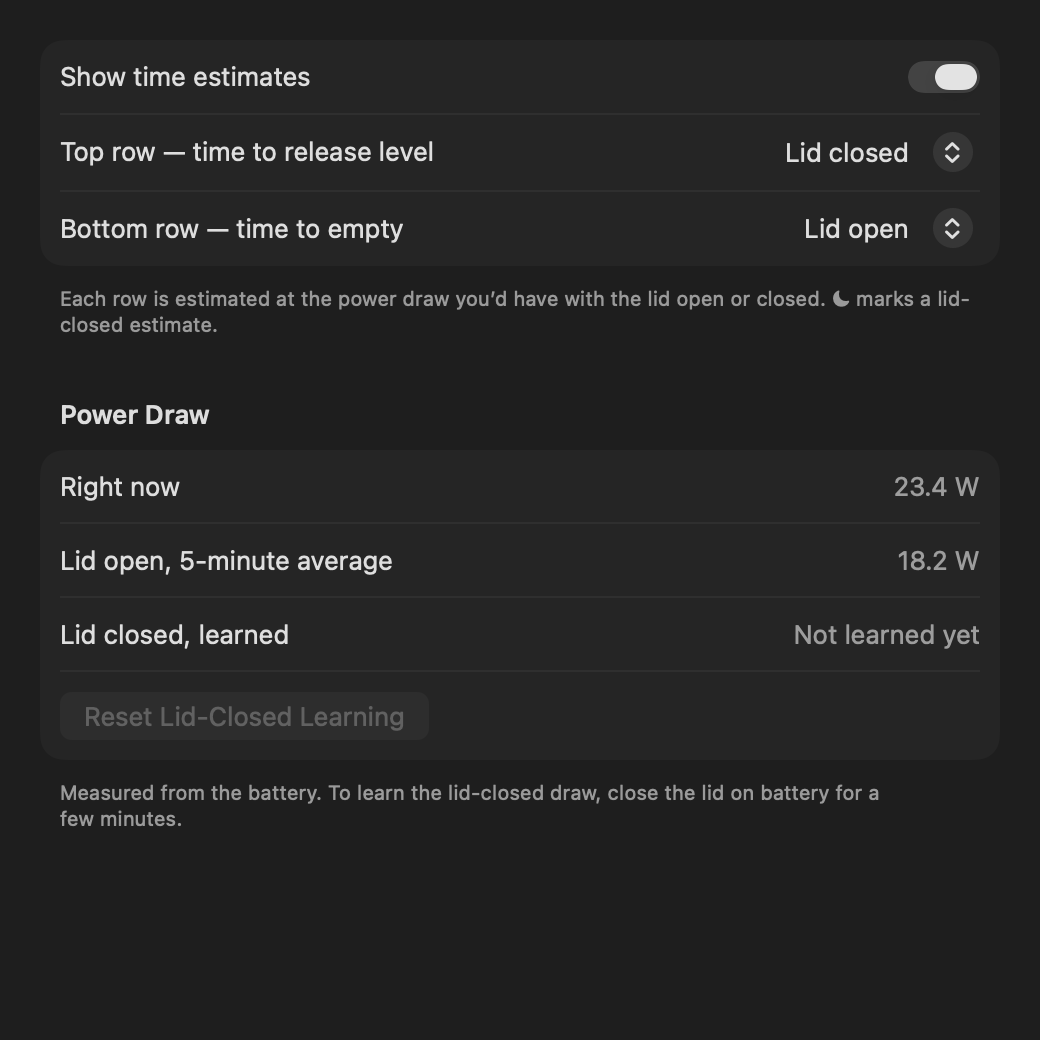
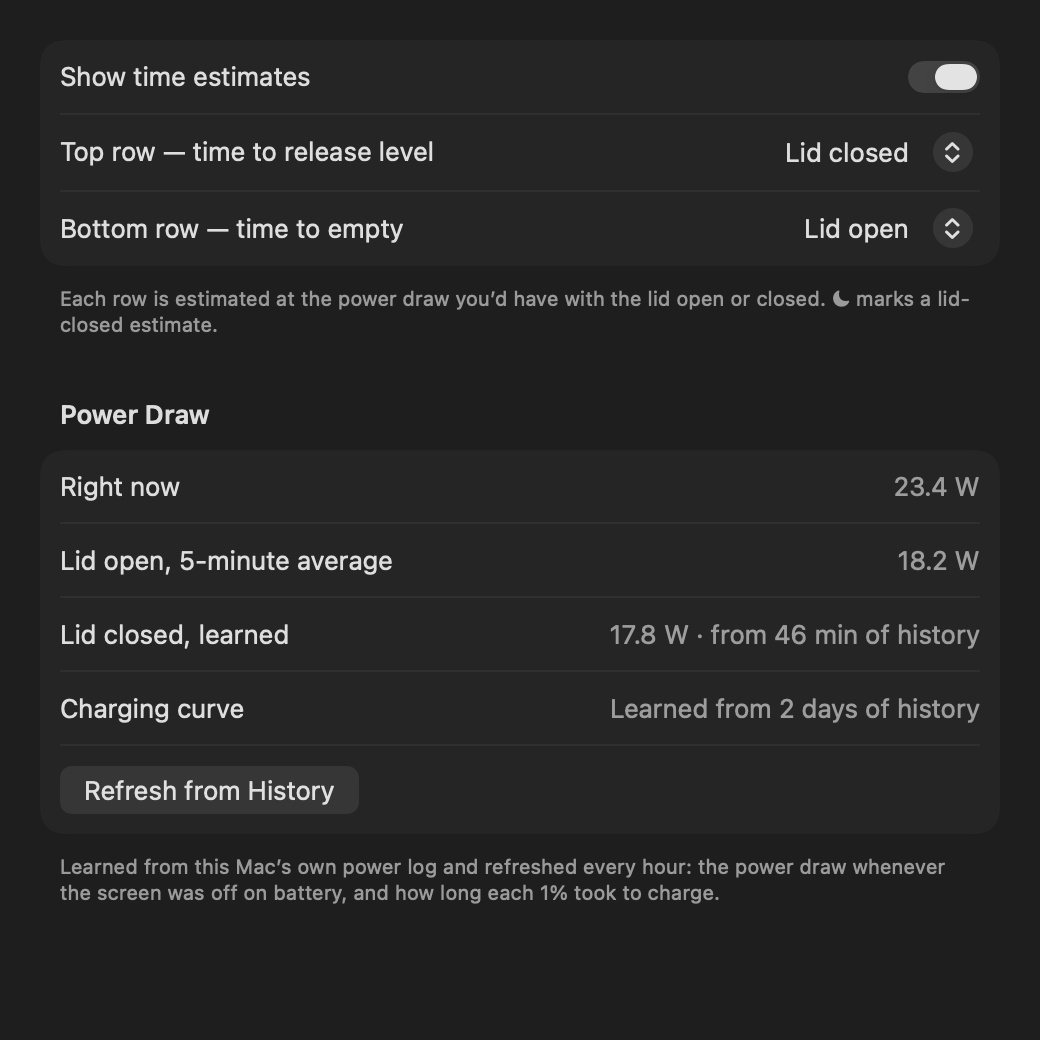
README: explain learning from the Mac's power history, refresh screenshots

diff --git a/README.md b/README.md
@@ -34,12 +34,24 @@ Prefer to compile it yourself? See [Build it yourself](#build-it-yourself).
 - **Screen really off.** With the lid closed, the built-in display is put to sleep, so it saves power and nothing is lit inside the bag.
 - **Battery guard.** On battery, the hold is released at a level you choose, 45% by default. It comes back when you plug in. It can also put the Mac to sleep at that point.
 - **Time estimates in the menu bar.** The top row shows the time to your release level, the bottom row the time to empty. On power, they show what you'd get if you unplugged now, and the time to full.
-- **Learns from your Mac's history.** Every Mac is different, so estimates come from this Mac's own macOS power log, read-only and without admin rights. The lid-closed draw is the average power whenever the screen was off on battery. The time to full uses how long each 1% actually took to charge, including the slowdown near full, adjusted to today's charger and load. The lid-open rate is a live 5-minute average. Everything refreshes hourly, and falls back to live learning or macOS's own estimate when there's no history yet.
+- **Learns from your Mac.** Every Mac is different, so the lid-closed power draw and the time to full are learned from this Mac's own history. See [Learning from your Mac](#learning-from-your-mac).
 - **Network keep-alive.** Pings a host at an interval you set. If two pings in a row fail, it joins a fallback Wi-Fi network such as your phone's hotspot.
 - **Docked aware.** With an external display, that screen keeps working, and "Keep display awake" decides whether it stays on.
 - **Safe by design.** Quitting, a crash or a force-quit always turns lid-close sleep back on, thanks to a small watchdog process.
 - **Native UI.** A menu with quick switches, and a standard Settings window with General, Menu Bar, Network, Help and About tabs.
 - **Light.** About 0% CPU at idle and around 27 MB of memory.
+
+## Learning from your Mac
+
+macOS keeps a power log on every Mac. LidCaffeinate reads it, read-only and without admin rights, so its estimates fit your battery, charger and the way you work.
+
+| What | How it's learned |
+|---|---|
+| Lid-closed power draw | The average power whenever the screen was off on battery, skipping the first 2 minutes while the display winds down. |
+| Time to full | How many minutes each 1% took to charge in each 10% band, so the slowdown near full is included. Below 80% it's adjusted to today's charger and load. |
+| Lid-open power draw | Live, as a rolling 5-minute average of the battery's measured draw. |
+
+The history is refreshed at launch, every hour, when charging starts and when the lid opens. Settings → Menu Bar shows where each number comes from, for example "17.8 W · from 46 min of history", with a Refresh from History button. On a new Mac with little history, the lid-closed draw is learned live while the lid is closed, and the time to full uses macOS's own estimate. The menu shows macOS's figure next to the learned one for comparison.
 
 ## LidCaffeinate vs `caffeinate`
 
@@ -52,7 +64,7 @@ Prefer to compile it yourself? See [Build it yourself](#build-it-yourself).
 | Stay awake with the lid closed on power, no external display | ❌ | ✅ |
 | Turn the screen off when the lid closes | — | ✅ |
 | Release at a battery level, re-arm on power | ❌ | ✅ |
-| Battery time estimates from real power draw | ❌ | ✅ |
+| Battery and charging time learned from your Mac's own history | ❌ | ✅ |
 | Keep the network up, fall back to a hotspot | ❌ | ✅ |
 | Restores normal sleep when stopped or crashed | ✅ | ✅ |
 | Needs admin rights | No | Once, for a single scoped rule |
